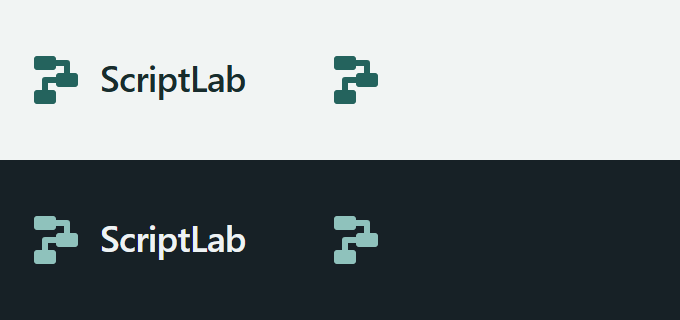
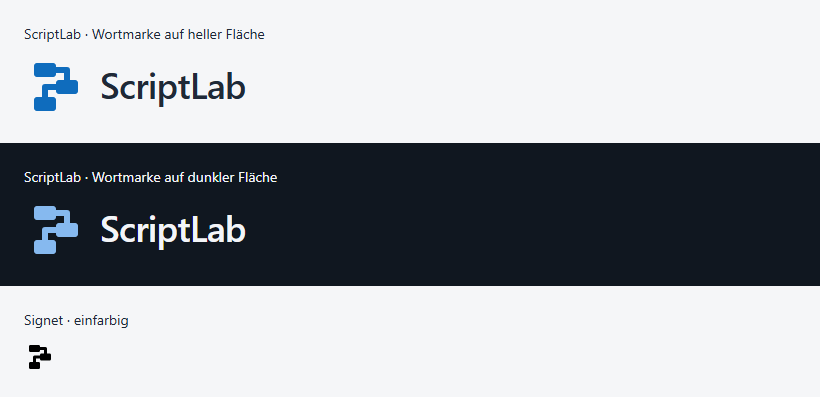
ScriptLab-Marke auf Office-Blau umgestellt

diff --git a/docs/gestaltung/MARKE.md b/docs/gestaltung/MARKE.md
@@ -4,7 +4,7 @@ Stand und Prüfung: 28. Oktober 2026.
 
 ## Richtung
 
-Die Schreibweise lautet **ScriptLab**. Die bestehende Idee eines S-Signets wurde als verbundene Folge aus drei Bausteinen weiterentwickelt. Die einfache Geometrie verbindet den visuellen Baukasten mit einem nachvollziehbaren Ablauf. Sie funktioniert ohne Farbe, Verläufe, Schatten oder Glanz. Schiefer und Petrol passen zum ruhigen Arbeitswerkzeug. Kundenunterlagen behalten ihre eigenen Vorlagen und Absenderangaben.
+Die Schreibweise lautet **ScriptLab**. Die bestehende Idee eines S-Signets wurde als verbundene Folge aus drei Bausteinen weiterentwickelt. Die einfache Geometrie verbindet den visuellen Baukasten mit einem nachvollziehbaren Ablauf. Sie funktioniert ohne Farbe, Verläufe, Schatten oder Glanz. Mit der Office-Farbwelt wurde Petrol durch Blau ersetzt; Form und Systemtypografie bleiben erhalten. Kundenunterlagen behalten ihre eigenen Vorlagen und Absenderangaben.
 
 Die Wortmarke verwendet Semibold und bleibt in den SVG-Dateien als echter, bearbeitbarer Text erhalten. Der Schriftstapel lautet `Segoe UI Variable, Segoe UI, system-ui, sans-serif`. Es werden keine Windows-Schriftdateien eingebettet, kopiert oder im Anwendungspaket ergänzt. Auf Systemen mit anderen Schriften kann die Laufweite abweichen. Die Anwendung soll die Wortmarke deshalb als Text und das Signet als Vektor darstellen. Die Entwicklercredits **Leon Stolz** stehen in den Produktinformationen.
 
@@ -12,7 +12,7 @@ Die Wortmarke verwendet Semibold und bleibt in den SVG-Dateien als echter, bearb
 
 | Datei | Verwendung |
 | --- | --- |
-| [scriptlab.svg](../../assets/scriptlab.svg) | Bearbeitbare Vektorquelle für das Windows-Anwendungsicon; Petrol auf abgerundeter Schieferfläche. |
+| [scriptlab.svg](../../assets/scriptlab.svg) | Bearbeitbare Vektorquelle für das Windows-Anwendungsicon; Blau auf abgerundeter dunkelblauer Neutralfläche. |
 | [scriptlab-signet.svg](../../assets/scriptlab-signet.svg) | Einfarbiges Signet mit `currentColor`, transparentem Hintergrund und identischer Geometrie. |
 | [scriptlab-wortmarke.svg](../../assets/scriptlab-wortmarke.svg) | Wortmarke mit Signet für helle Flächen. |
 | [scriptlab-wortmarke-dunkel.svg](../../assets/scriptlab-wortmarke-dunkel.svg) | Wortmarke mit Signet für dunkle Flächen. |
@@ -23,7 +23,7 @@ Die Wortmarke verwendet Semibold und bleibt in den SVG-Dateien als echter, bearb
 | [Wortmarken-Prüftafel](../../assets/scriptlab-marke-pruefung.png) | Beide Wortmarken sowie einfarbiges Signet, im installierten Chrome gerendert. |
 | [Technischer Prüfdatensatz](../../assets/scriptlab-icon-pruefung.json) | Tatsächlich gelesene ICO-Einträge und Prüfungen. |
 
-Das einfarbige Signet benötigt eine explizite Vordergrundfarbe. Ein externes SVG in einem HTML-`img` erbt `currentColor` nicht aus dem umgebenden Dokument. Für die Oberfläche daher ein Inline-SVG oder eine CSS-Maske mit der jeweiligen Akzentrolle verwenden. Auf dunklen Flächen ist `#8FC2BC`, auf hellen Flächen `#24635D` vorgesehen. Das Windows-Icon bleibt unabhängig vom Anwendungsthema gleich.
+Das einfarbige Signet benötigt eine explizite Vordergrundfarbe. Ein externes SVG in einem HTML-`img` erbt `currentColor` nicht aus dem umgebenden Dokument. Für die Oberfläche daher ein Inline-SVG oder eine CSS-Maske mit der jeweiligen Akzentrolle verwenden. Auf dunklen Flächen ist `#86B9EF`, auf hellen Flächen `#0F6CBD` vorgesehen. Das Windows-Icon verwendet `#86B9EF` auf `#101720` und bleibt unabhängig vom Anwendungsthema gleich.
 
 ## Reproduzierbare Erzeugung
 
@@ -37,15 +37,14 @@ Der Generator liest die Rechtecke und Verbindung aus der SVG-Quelle, rendert jed
 
 ## Tatsächlich durchgeführte Prüfung
 
-Der Generator wurde am 28. Oktober 2026 erneut erfolgreich ausgeführt. Ein unabhängiger Python/Pillow-Lesevorgang hat anschließend geprüft:
+Der Generator wurde am 28. Oktober 2026 nach der Umstellung auf Office-Blau erneut erfolgreich ausgeführt. Ein unabhängiger Node-Lesevorgang hat anschließend geprüft:
 
 - ICO-Typ 1, genau fünf Einträge und jeweils 32 Bit Farbtiefe.
 - Tatsächliche PNG-Abmessungen 16, 24, 32, 48 und 256 Pixel.
-- Alle ICO-Bildressourcen sind pixelgleich zu den separaten PNGs.
+- Alle ICO-Bildressourcen sind bytegleich zu den separaten PNGs.
 - `scriptlab.png` ist identisch zur 256-Pixel-Ressource.
-- Die äußeren Ecken sind transparent; die Iconfläche bleibt geschlossen.
-- Die Signet-Geometrie stimmt in Anwendungsicon, einfarbigem Signet und beiden Wortmarken überein.
+- Die bestehende Vektorgeometrie wurde beibehalten; der Generator leitet die Rasterdateien weiter aus derselben Quelle ab.
 
-Die Icon-Prüftafel wurde visuell bei Originalgröße und dreifacher Pixelvergrößerung auf beiden Hintergrundfarben betrachtet. Drei Bausteine und Verbindung bleiben erkennbar. Bei 16 Pixeln sind die Konturen erwartungsgemäß weicher. Die Wortmarken wurden mit den installierten Systemschriften im vorhandenen Chrome gerendert und visuell geprüft. Der Text endet bei etwa 222 von 268 verfügbaren SVG-Pixeln; er wird nicht abgeschnitten.
+Die neue Icon-Prüftafel wurde visuell bei 16, 24, 32, 48 und 256 Pixeln auf beiden Hintergrundfarben betrachtet; kleine Größen zusätzlich bei dreifacher Pixelvergrößerung. Drei Bausteine und Verbindung bleiben erkennbar. Bei 16 Pixeln sind die Konturen erwartungsgemäß weicher. Die blauen Wortmarken und das einfarbige Signet wurden mit den installierten Systemschriften im vorhandenen Chrome gerendert und visuell geprüft. Der Text wird nicht abgeschnitten.
 
 Diese Asset-Prüfung bestätigt die Dateien und ihre Darstellung. Sie ersetzt keine Kontrolle der Windows-Taskleiste, des Installers oder aller Fensterzustände der fertig gebauten Anwendung; die Produktprüfung wird separat dokumentiert.
